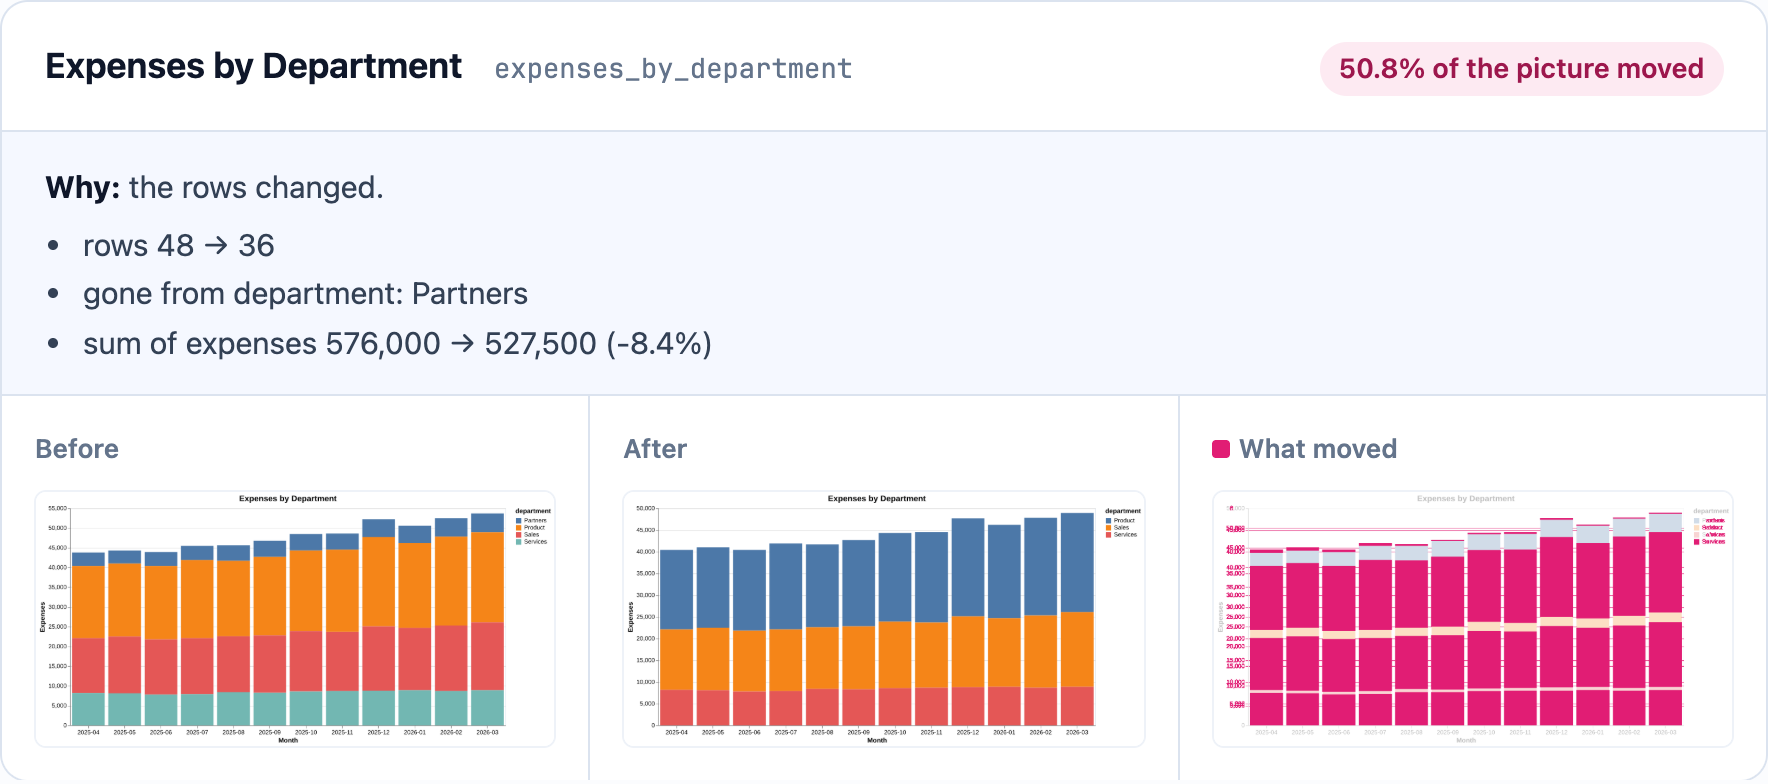
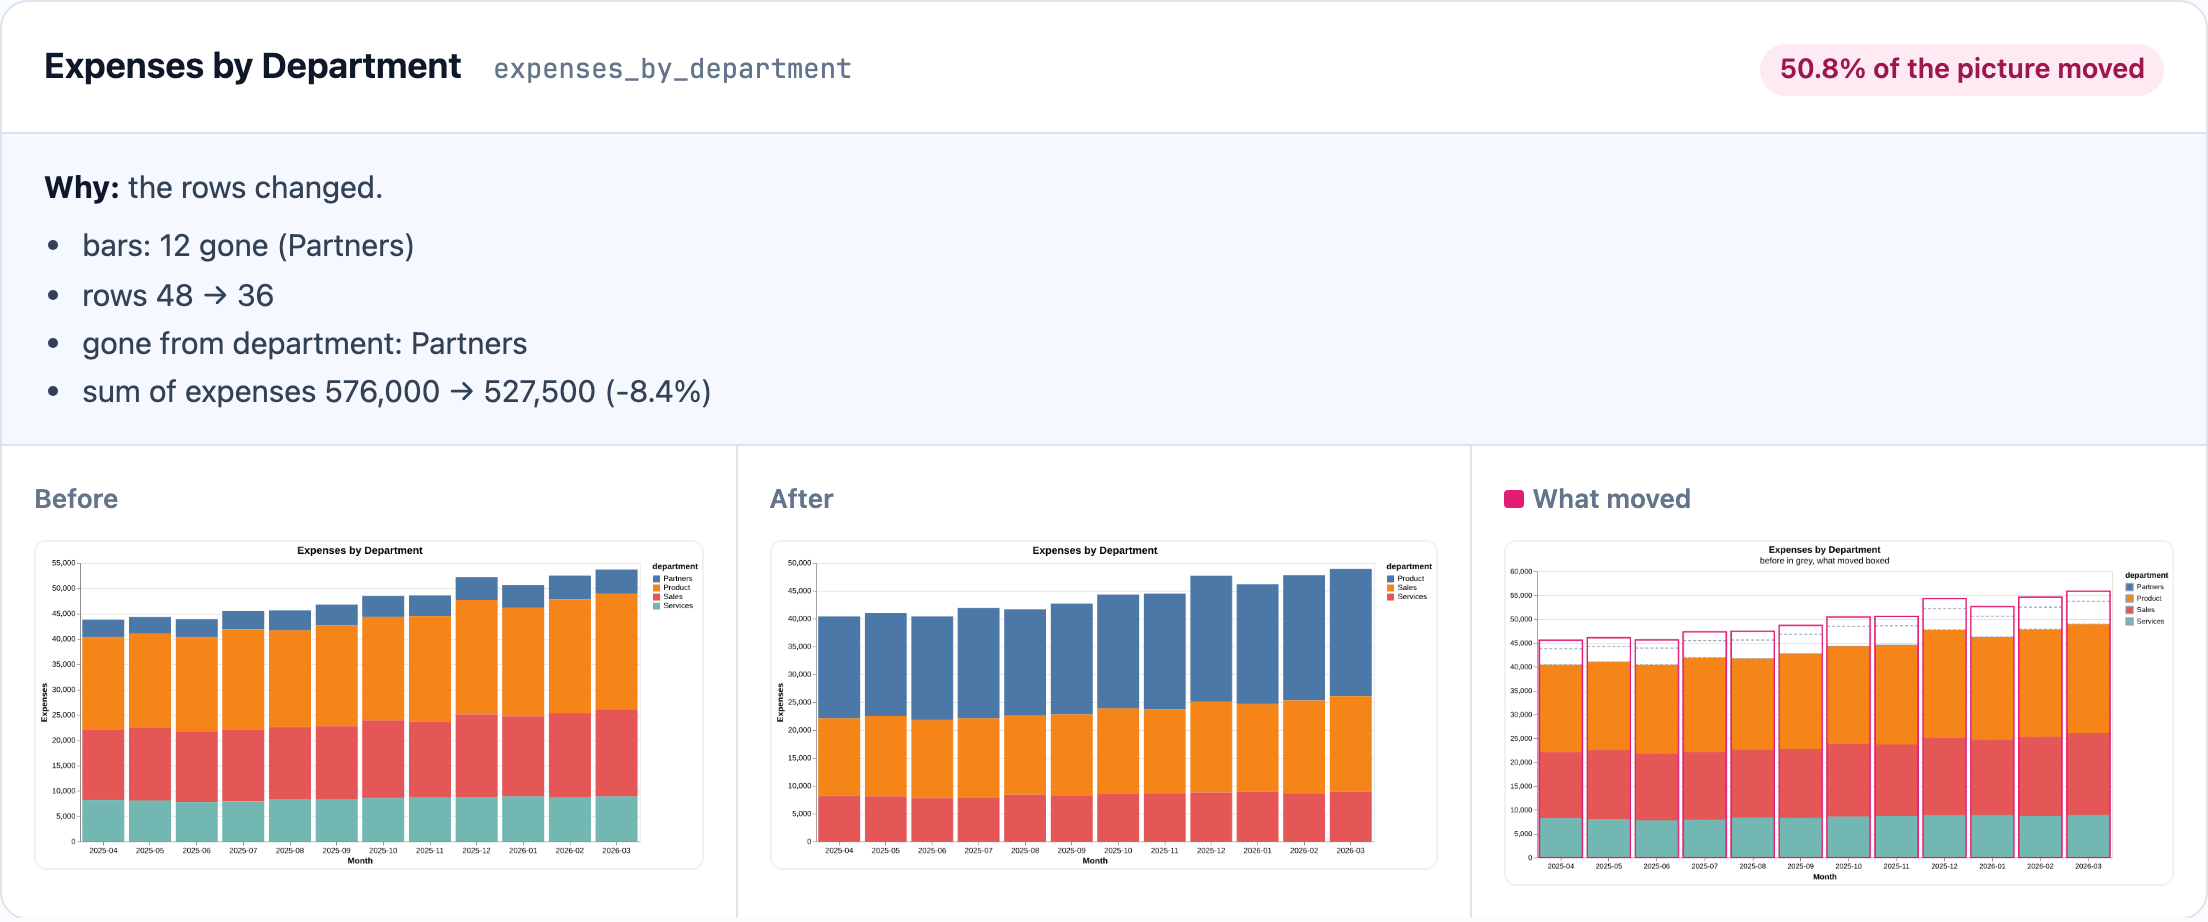
docs(site): show what moved in the chart's terms, from the demo pull request

diff --git a/docs-site/src/pages/index.js b/docs-site/src/pages/index.js
@@ -118,7 +118,7 @@ const featureSections = [
     items: [
       {
         name: 'A diff that says what moved, and why',
-        desc: 'The query changed, the rows changed, or only the chart definition did. Row changes are spelled out: a missing category, a column total, the row count. The same data renders to the same bytes, so an unchanged chart is never reported.',
+        desc: 'First in the chart\'s terms: bars gone, points higher or lower, and which series. Then the rows: a missing category, a column total, the row count. Then why: the query changed, the rows changed, or only the chart definition did. The same data renders to the same bytes, so an unchanged chart is never reported.',
         status: 'live',
         reverse: false,
         visual: 'visualDiffTerminal',
@@ -127,12 +127,12 @@ const featureSections = [
       },
       {
         name: 'Before, after, and what moved',
-        desc: 'Every changed chart is drawn three times: as it was, as it is, and with each pixel that differs marked, so you can see where it moved and not only that it did. One workflow file puts a summary on the pull request and the full report in its artifacts.',
+        desc: 'Every changed chart is drawn three times: as it was, as it is, and as it is over its old self, the baseline in grey behind the new marks and every category that moved boxed. A series that disappeared stays in the legend with nothing under it. One workflow file puts a summary on the pull request and the full report in its artifacts.',
         status: 'live',
         reverse: true,
         visual: 'visualDiffReport',
         filename: 'target/glyf/diff/index.html',
-        links: [['See it on a real pull request', 'https://github.com/glyf-data/glyf/pull/155']],
+        links: [['See it on a real pull request', 'https://github.com/glyf-data/glyf/pull/175']],
       },
     ],
   },
@@ -655,10 +655,10 @@ function FeatureVisual({item}) {
         <FeatureMacWindow filename={item.filename}>
           <img
             src="/img/visual-diff/report-card.png"
-            alt="One chart from the visual diff report, shown three times: before, after, and what moved, where every pixel that differs is marked in magenta. Above them it lists the row changes: rows 48 to 36, Partners gone from department, and the sum of expenses down 8.4 percent."
+            alt="One chart from the visual diff report, shown three times: before, after, and what moved, where the new bars are drawn over the baseline's in grey and every month that moved is boxed. Above them it says bars: 12 gone (Partners), rows 48 to 36, and the sum of expenses down 8.4 percent."
             className="visualDiffReport"
-            width="1768"
-            height="784"
+            width="2208"
+            height="922"
             loading="lazy"
           />
         </FeatureMacWindow>
@@ -1230,12 +1230,15 @@ const visualDiffSession = [
   ['ctx', ' group by 1, 2', 700],
   ['cmd', 'glyf diff --baseline ../base', 600],
   ['chart', '~ bookings_trend: 6.1% of the picture moved (the rows changed)', 130],
+  ['marks', '    points: 12 lower', 90],
   ['row', '    sum of bookings 1,079,700 → 974,000 (-9.8%)', 130],
   ['chart', '~ expenses_by_department: 50.8% of the picture moved (the rows changed)', 130],
+  ['marks', '    bars: 12 gone (Partners)', 90],
   ['row', '    rows 48 → 36', 90],
   ['row', '    gone from department: Partners', 90],
   ['row', '    sum of expenses 576,000 → 527,500 (-8.4%)', 130],
   ['chart', '~ gross_margin_trend: 7.4% of the picture moved (the rows changed)', 130],
+  ['marks', '    points: 12 lower', 90],
   ['row', '    sum of gross_margin 503,700 → 446,500 (-11.4%)', 130],
   ['chart', '~ margin_rate_by_department: 35.0% of the picture moved (the rows changed)', 130],
   ['row', '    rows 48 → 36', 90],

diff --git a/docs-site/src/css/custom.css b/docs-site/src/css/custom.css
@@ -3534,6 +3534,7 @@ nav.navbar .navbar-sidebar__items .navbarSlackLink {
 .visualDiffLine--chart {
   color: #f9a8d4;
 }
+.visualDiffLine--marks { color: #f0abfc; }
 .visualDiffLine--row {
   color: #94a3b8;
 }

diff --git a/docs-site/docs/resources/roadmap.md b/docs-site/docs/resources/roadmap.md
@@ -12,6 +12,21 @@ order is the priority.
   on the <Link href="https://github.com/glyf-data/glyf/releases">releases page</Link>.
 </p>
 
+## In the next release
+
+<div className="roadmapNext">
+  <span className="roadmapStatus roadmapStatus--merged">Merged, not yet released</span>
+  <h3>What moved, in the chart's terms</h3>
+  <p>
+    <code>glyf diff</code> now says what happened to a bar, line or area chart the way the chart
+    draws it, <code>bars: 12 gone (Partners)</code>, and draws it: this build's marks over the
+    baseline's in grey, with every category that moved boxed. It replaces the pixel-level
+    picture for those charts. Also merged: glyf validates the chart block itself for every chart
+    type, and reads chart SQL with a parser that reports syntax errors with a position.
+  </p>
+  <Link to="/docs/guides/visual-diff#what-moved-in-the-charts-terms">Read the guide</Link>
+</div>
+
 ## Planned
 
 Vote with a 👍 on the issue. The most wanted go first.
